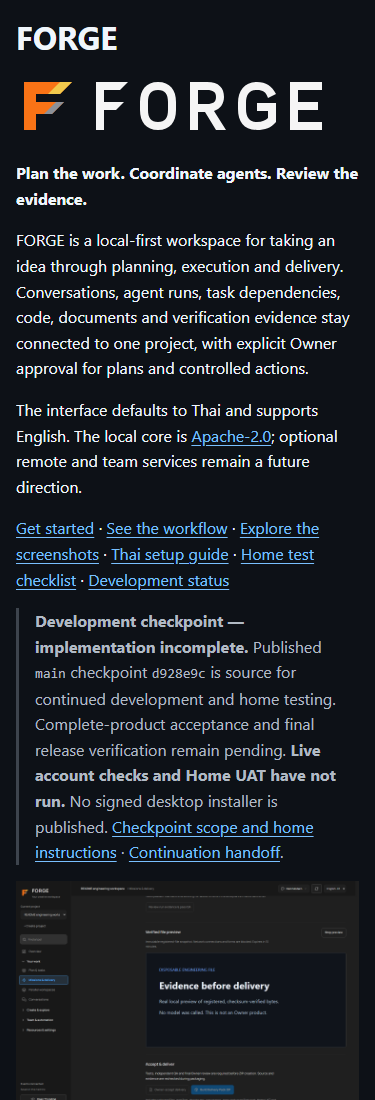
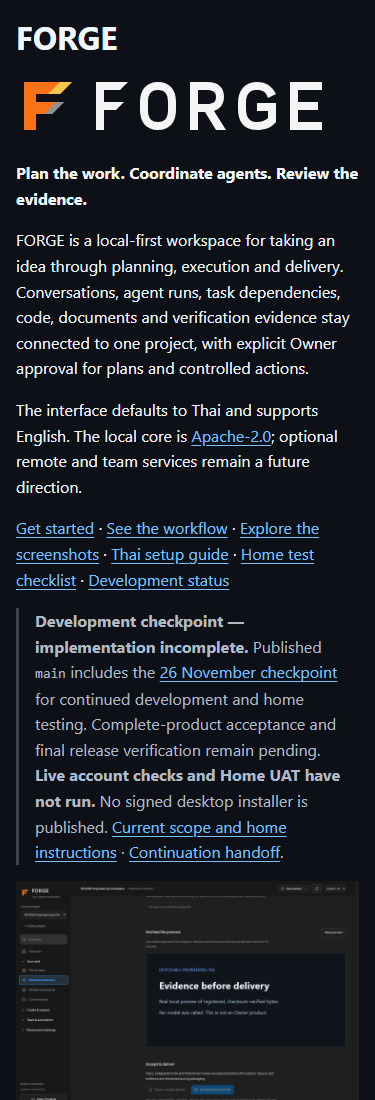
docs: record authorized main publication and home continuation

Changed region(s): [[0.088, 0.5873, 0.9093, 0.7727]]

diff --git a/apps/website/src/App.tsx b/apps/website/src/App.tsx
@@ -1,7 +1,7 @@
 import {useEffect, useState, type ReactNode} from 'react';
 import * as Tabs from '@radix-ui/react-tabs';
 import {ArrowUpRight, ArrowRight, ArrowDown, Sun, Moon, Menu, X, GitBranch, Layers3, Monitor, FileCheck2, Check, Download, ExternalLink} from 'lucide-react';
-import {href, repo, publicBaseline, publicCheckpoint, titles, type Lang, type Page} from './site';
+import {href, repo, publicBaseline, publicCheckpoint, currentCheckpoint, titles, type Lang, type Page} from './site';
 import {releases, windows} from './releases';
 import {StrategyStory} from './StrategyStory';
 import {SourceDownloads} from './SourceDownloads';
@@ -108,7 +108,7 @@ function CapabilityTable({t,lang}:{t:T;lang:Lang}) {
     <div className="capability-filters" role="group" aria-label={t('กรองสถานะความสามารถ','Filter capability status')}>{[['all',t('ทั้งหมด','All capabilities')],['local',t('นักพัฒนาตรวจแล้ว','Developer verified')],['experimental','Experimental'],['planned','Planned']].map(([id,label])=><button key={id} aria-pressed={filter===id} onClick={()=>setFilter(id)}>{label}</button>)}</div>
     <p className="sr-only" role="status">{t('แสดง','Showing')} {capabilities.filter(c=>filter==='all'||c[1]===filter).length} {t('รายการ','capabilities')}</p>
     <div className="capability-table">{capabilities.filter(c=>filter==='all'||c[1]===filter).map(([name,status,th,en])=><article className="capability" key={name}><div><h3>{name}</h3><span className={`status ${status}`}>{status==='local'?t('นักพัฒนาตรวจแล้ว','Developer verified'):status==='planned'?'Planned':'Experimental'}</span></div><p>{t(th,en)}</p><a href={href(lang,'github')} aria-label={`${name}: ${t('สถานะ source','source availability')}`}><ArrowUpRight size={19}/></a></article>)}</div>
-    <p className="qualification-note">{t('Source checkpoint d928e9c เป็นสาธารณะแล้ว · ยังอยู่ระหว่างพัฒนาและไม่มี public release · Home UAT และ macOS native: NOT_RUN','Development checkpoint d928e9c is public · In development; no public release · Home UAT and native macOS: NOT_RUN')} <a href={href(lang,'changelog')}>{t('อ่านสถานะและข้อจำกัด','Read status and limits')}<ArrowUpRight size={14}/></a></p>
+    <p className="qualification-note">{t('Source checkpoint f2387e8 เผยแพร่บน main แล้ว · ยังอยู่ระหว่างพัฒนาและไม่มี signed release · Home UAT และ macOS native: NOT_RUN','Source checkpoint f2387e8 is published on main · In development; no signed release · Home UAT and native macOS: NOT_RUN')} <a href={href(lang,'github')}>{t('อ่านสถานะและข้อจำกัด','Read status and limits')}<ArrowUpRight size={14}/></a></p>
   </section>;
 }
 
@@ -153,7 +153,7 @@ function DownloadPage({lang,t}:{lang:Lang;t:T}) {
 function Install({lang,t}:{lang:Lang;t:T}) {
   return <><div className="page-heading"><h1>Start on<br/>your own machine.</h1><p>{t('คู่มือนี้สำหรับ source รุ่นพัฒนา Windows คือแพลตฟอร์มที่มีหลักฐานการทดสอบในเครื่อง ส่วน Home UAT ยังไม่ได้ทดสอบ','This guide covers the development source. Windows has local verification evidence; home UAT has not been run.')}</p></div>
     <div className="reading-layout"><aside className="reading-aside"><h2>Before you begin</h2><ul><li>Windows x64</li><li>Node.js 24.13+</li><li>{t('อินเทอร์เน็ตในการเริ่มครั้งแรก','Internet on first start')}</li><li>{t('บัญชีบริการของคุณเอง','Your own provider accounts')}</li></ul><a href={href(lang,'download')}>{t('ตรวจสถานะ public release','Check public release status')}<Arrow/></a></aside><div className="prose">
-      <section><h2>Get the source</h2><p>{t('Checkpoint d928e9c เผยแพร่บน main แล้ว พร้อม Missions, isolated workspaces และ integration รุ่นพัฒนา เลือก revision นี้ แล้วใช้ Code → Download ZIP หรือ clone แตกทั้งโฟลเดอร์ก่อนเริ่ม ห้ามรัน launcher ภายใน ZIP','Checkpoint d928e9c is published on main, including Missions, isolated workspaces and development integrations. Select that revision, then use Code → Download ZIP or clone. Extract the whole folder before starting; do not run a launcher inside a ZIP.')}</p><External to={publicCheckpoint}>{t('เปิด source checkpoint','Open source checkpoint')}</External><p>{t('เป็น development checkpoint ที่ยังมีงานค้าง อ่าน handoff ก่อนเริ่ม เครื่องใหม่นี้จะไม่ได้รับ credentials หรือ runtime ส่วนตัวจาก Git และเว็บนี้ไม่ขอ token','This development checkpoint has remaining work; read its handoff before starting. Git does not transfer machine credentials or private runtimes. This website never asks for a token.')}</p></section>
+      <section><h2>Get the source</h2><p>{t('Checkpoint f2387e8 เผยแพร่บน main แล้ว รวม GUI หกกลยุทธ์, session roles และ Strategist ใช้ source revision นี้หรือ source ZIP ในหน้า Downloads แตกทั้งโฟลเดอร์ก่อนเริ่ม ห้ามรัน launcher ภายใน ZIP','Checkpoint f2387e8 is published on main, including six GUI strategies, session roles and Strategist. Use this source revision or the source ZIPs on Downloads. Extract the whole folder before starting; do not run a launcher inside a ZIP.')}</p><External to={currentCheckpoint}>{t('เปิด source checkpoint','Open source checkpoint')}</External><p>{t('เป็น development checkpoint ที่ยังมีงานค้าง อ่าน handoff ก่อนเริ่ม เครื่องใหม่นี้จะไม่ได้รับ credentials หรือ runtime ส่วนตัวจาก Git และเว็บนี้ไม่ขอ token','This development checkpoint has remaining work; read its handoff before starting. Git does not transfer machine credentials or private runtimes. This website never asks for a token.')}</p></section>
       <section><h2>Open FORGE</h2><p>{t('ติดตั้ง Node.js 24.13 ขึ้นไป แล้วดับเบิลคลิก Start-FORGE.cmd ที่ root ของ source การเริ่มครั้งแรกติดตั้ง dependency ที่ pin ไว้และ build แอป จากนั้นเปิดที่อยู่ localhost ที่ launcher แสดง','Install Node.js 24.13 or later. Double-click Start-FORGE.cmd at the source root. First launch installs pinned dependencies and builds the app, then opens the localhost address reported by the launcher.')}</p><p>{t('ใช้ Stop-FORGE.cmd เพื่อหยุด และ Restart-FORGE.cmd เพื่อเริ่มใหม่ ข้อมูลบนเครื่องแยกจาก source; การอัปเดตควรสำรองข้อมูลตามคู่มือก่อน','Use Stop-FORGE.cmd to stop and Restart-FORGE.cmd to restart. Machine data is separate from source; follow the backup guide before updating.')}</p><External to="https://nodejs.org/en/download">Node.js downloads</External></section>
       <section><h2>Connect deliberately</h2><p>{t('สร้างโปรเจกต์ใน GUI แล้วเพิ่มบัญชีและ connection ที่ต้องใช้ใน Settings ตรวจสิทธิ์ เครื่องมือ และสถานะจริงก่อนรัน งานและผู้ช่วยต้องอยู่ในขอบเขตที่คุณอนุญาต','Create a project in the GUI, then add the accounts and connections you need in Settings. Check permissions, tools and actual readiness before running. Work and helpers stay within the scope you authorize.')}</p></section>
       <section id="first-flow"><h2>Check your first flow</h2><p>{t('สร้างแผนและงาน บันทึกเอกสาร แล้วปิดและเปิดใหม่เพื่อตรวจการคงอยู่ของข้อมูล ทดสอบ provider และรายงานแยกตามบริการและ engine ที่ตั้งค่าไว้','Create a plan and task, save a document, then reopen to check persistence. Qualify providers and reports separately against the services and engines you configured.')}</p><p>{t('macOS: มี Start-FORGE.command ใน source แต่ native qualification ยังเป็น NOT_RUN และ report engines ปัจจุบันตรวจบน Windows x64 เท่านั้น','macOS: Start-FORGE.command exists in source, but native qualification is NOT_RUN. Current report engine qualification covers Windows x64 only.')}</p><External to={href(lang,'docs')}>{t('ดูเอกสารเพิ่มเติม','More documentation')}</External></section>
@@ -184,7 +184,7 @@ function Github({t}:{t:T}) {
   return <><div className="page-heading"><h1>Follow the source.<br/>Inspect the work.</h1><p>{t('แกนหลักแบบ open source ทำงานบนเครื่องของคุณ ส่วนบริการ remote และทีมเป็นทางเลือกในอนาคต เว็บนี้ build แยกจาก runtime โดยไม่มีข้อมูลส่วนตัว ความจำ หรือ credential','The open-source core runs on your machine. Optional remote and team services are future work. This site builds independently of the runtime, without private workspace data, memory or credentials.')}</p></div><section className="source-panel"><GitBranch size={36}/><h2>siriponsri / forge-agents</h2>
     <h3>Public baseline</h3><p>{t('ภาพจริงวันที่ 24 พ.ย. แสดง source พื้นฐาน 01ee779 ซึ่งมี Office รวมอยู่ด้วย และยังเปิดดู revision เดิมได้ ภาพนี้ไม่ได้แทนหน้าจอ integration ที่เพิ่มภายหลัง','The actual 24 Nov screenshot shows public baseline 01ee779, including Office. That historical revision remains available. The image does not represent integrations added later.')}</p>
     <div className="source-links"><External to={publicBaseline}>{t('ดู source พื้นฐาน 01ee779','Inspect baseline 01ee779')}</External><External to={`${repo}/blob/01ee779ffd049ba875ad85bd36f2c8accd274ca0/app/web/src/Office.jsx`}>{t('ดู source ของ Office','Inspect Office source')}</External></div>
-    <h3>Current development</h3><p>{t('ตรวจ GitHub API แบบไม่ใช้บัญชีวันที่ 26 พ.ย. 2026: main และ commit d928e9c ตอบ HTTP 200 เป็น development checkpoint ที่เผยแพร่แล้ว รวม Missions, Parallel Workspace, Visualization และ Proactive/budget งานที่กลับมาทำต่อวันที่ 26 พ.ย. ยังไม่รวมใน checkpoint นี้','Anonymous GitHub API check, 26 Nov 2026: main and commit d928e9c return HTTP 200. This published development checkpoint includes Missions, Parallel Workspace, Visualization and Proactive/budget. Resumed work from 26 Nov is not included in that checkpoint.')}</p><p>{t('ข้อมูลนี้เป็นผลตรวจที่บันทึกไว้ ไม่ใช่การตรวจสด และยังไม่มี public release หรือแพ็กเกจดาวน์โหลดในข้อมูลที่บันทึก','This is a recorded check, not a live lookup. There is still no public release or downloadable package in the recorded metadata.')}</p><Action to={publicCheckpoint}>Open published checkpoint</Action>
+    <h3>Current development</h3><p>{t('26 พ.ย. 2026: Owner อนุมัติ push checkpoint f2387e8 เข้า main และตรวจ revision จาก Git remote ตรงกันแล้ว รวม GUI หกกลยุทธ์, session roles, Strategist, landing และ source launcher ZIP การเผยแพร่ source ไม่ใช่การรับรอง product หรือการ deploy เว็บ','26 Nov 2026: the Owner authorized checkpoint f2387e8 on main, and Git remote verification confirmed the revision. It includes six GUI strategies, session roles, Strategist, the landing and source-launcher ZIPs. Source publication is not product qualification or website deployment.')}</p><Action to={currentCheckpoint}>Open current checkpoint</Action><p>{t('ผลตรวจ API ก่อน push ที่บันทึกไว้ยังอ้างอิง d928e9c และไม่มี GitHub Release ไม่ใช่ผลตรวจสดหรือสถานะล่าสุดของ main','The earlier recorded API check covers d928e9c and no GitHub Release; it is historical evidence, not a live lookup or the latest main revision.')}</p><External to={publicCheckpoint}>{t('เปิด checkpoint ก่อนหน้า','Open earlier checkpoint')}</External>
   </section></>;
 }
 function Footer({lang,t}:{lang:Lang;t:T}) {

diff --git a/apps/website/src/StrategyStory.tsx b/apps/website/src/StrategyStory.tsx
@@ -79,6 +79,6 @@ export function StrategyStory({lang,t}:{lang:Lang;t:T}) {
       <div className="story-detail" aria-live={playing?'off':'polite'} aria-atomic="true"><strong>{t(steps[step].titleTh,steps[step].titleEn)}</strong><p>{t(steps[step].bodyTh,steps[step].bodyEn)}</p></div>
       <p className="strategy-boundary"><ShieldCheck size={16} aria-hidden="true"/>{t(strategy.limitTh,strategy.limitEn)}</p>
     </div>
-    <div className="strategy-publication"><p>{t('ทั้ง 6 โหมดอยู่ระหว่างพัฒนาใน branch ที่ยังไม่เผยแพร่ ภาพนี้อธิบายแนวคิด ไม่ใช่หลักฐานว่า checkpoint d928e9c มีโหมดเหล่านี้หรือผ่านการรัน provider จริง','All six modes are in active development on an unpublished branch. This diagram explains the design; it does not show these modes in public checkpoint d928e9c or qualify live provider execution.')}</p><a href={href(lang,'github')}>{t('ตรวจสถานะ source','Check source status')}<ArrowUpRight size={16} aria-hidden="true"/></a></div>
+    <div className="strategy-publication"><p>{t('Source รุ่นพัฒนา 26 พ.ย. รวม GUI ทั้ง 6 โหมดแล้ว ภาพนี้อธิบายแนวคิด ไม่ใช่หลักฐานการรัน provider จริงหรือการรับรอง complete product','The 26 Nov development source includes all six GUI modes. This diagram explains the design; it does not qualify live provider execution or complete-product acceptance.')}</p><a href={href(lang,'github')}>{t('ตรวจสถานะ source','Check source status')}<ArrowUpRight size={16} aria-hidden="true"/></a></div>
   </section>;
 }

diff --git a/docs/brand/evidence/readme-dark.html b/docs/brand/evidence/readme-dark.html
@@ -19,11 +19,12 @@ approval for plans and controlled actions.</p>
 <a href="docs/owner/forge-local-complete-20261124-v3/progress/CURRENT_STATUS.md">Development status</a></p>
 <blockquote>
 <p><strong>Development checkpoint — implementation incomplete.</strong> Published <code>main</code>
-checkpoint <code>d928e9c</code> is source for continued development and home testing.
+includes the <a href="https://github.com/siriponsri/forge-agents/tree/f2387e866a2ae3808ad1989a0a7860ae437e9956">26 November checkpoint</a>
+for continued development and home testing.
 Complete-product acceptance and final release verification remain pending.
 <strong>Live account checks and Home UAT have not run.</strong> No signed desktop
 installer is published.
-<a href="docs/CHECKPOINT_HOME_20261125.md">Checkpoint scope and home instructions</a> ·
+<a href="docs/HOME_HANDOFF_20261126_TH.md">Current scope and home instructions</a> ·
 <a href="docs/NEXT_SESSION_20261126.md">Continuation handoff</a>.</p>
 </blockquote>
 <p><img src="docs/media/screenshots/mission-preview.png" alt="FORGE Mission showing a registered HTML preview and local test evidence. Engineering fixture with injected provider observations; actual local files, tests and preview."></p>

diff --git a/docs/brand/evidence/readme-light.html b/docs/brand/evidence/readme-light.html
@@ -19,11 +19,12 @@ approval for plans and controlled actions.</p>
 <a href="docs/owner/forge-local-complete-20261124-v3/progress/CURRENT_STATUS.md">Development status</a></p>
 <blockquote>
 <p><strong>Development checkpoint — implementation incomplete.</strong> Published <code>main</code>
-checkpoint <code>d928e9c</code> is source for continued development and home testing.
+includes the <a href="https://github.com/siriponsri/forge-agents/tree/f2387e866a2ae3808ad1989a0a7860ae437e9956">26 November checkpoint</a>
+for continued development and home testing.
 Complete-product acceptance and final release verification remain pending.
 <strong>Live account checks and Home UAT have not run.</strong> No signed desktop
 installer is published.
-<a href="docs/CHECKPOINT_HOME_20261125.md">Checkpoint scope and home instructions</a> ·
+<a href="docs/HOME_HANDOFF_20261126_TH.md">Current scope and home instructions</a> ·
 <a href="docs/NEXT_SESSION_20261126.md">Continuation handoff</a>.</p>
 </blockquote>
 <p><img src="docs/media/screenshots/mission-preview.png" alt="FORGE Mission showing a registered HTML preview and local test evidence. Engineering fixture with injected provider observations; actual local files, tests and preview."></p>

diff --git a/apps/website/src/site.ts b/apps/website/src/site.ts
@@ -4,6 +4,7 @@ export const pages: Page[] = ['home', 'docs', 'install', 'download', 'changelog'
 export const repo = 'https://github.com/siriponsri/forge-agents';
 export const publicBaseline = `${repo}/tree/01ee779ffd049ba875ad85bd36f2c8accd274ca0`;
 export const publicCheckpoint = `${repo}/tree/d928e9cc97d54abbd38f2f65afa1798ac8b5b6d5`;
+export const currentCheckpoint = `${repo}/tree/f2387e866a2ae3808ad1989a0a7860ae437e9956`;
 export const href = (lang: Lang, page: Page = 'home') => `/${lang}/${page === 'home' ? '' : page + '/'}`;
 export function route(path: string): {lang: Lang; page: Page} {
   const parts = path.split('/').filter(Boolean);

diff --git a/tools/brand/verify.py b/tools/brand/verify.py
@@ -151,7 +151,9 @@ assert media(readme) == media(baseline), 'Existing screenshot/GIF paths or alt l
 checks['preserved']['existing_media_paths_and_alt_labels_identical'] = True
 assert '2x speed' in readme and 'predetermined' in readme and 'injected' in readme
 assert 'Apache-2.0' in readme and 'Legacy launchers retain their original meaning' in readme
-assert 'Strategist' in readme and 'd928e9c' in readme
+assert 'Strategist' in readme
+checkpoint = 'f2387e866a2ae3808ad1989a0a7860ae437e9956' if args.integrated else 'd928e9c'
+assert checkpoint in readme, 'README must retain its applicable development checkpoint'
 checks['readme_sha256'] = sha(readme.encode())
 assert layout['readmeSHA256'] == checks['readme_sha256'], 'README layout captures need regeneration'
 checks['readme_layout_variants'] = len(layout['variants'])

diff --git a/docs/HOME_HANDOFF_20261126_TH.md b/docs/HOME_HANDOFF_20261126_TH.md
@@ -1,5 +1,22 @@
 # ส่งต่องาน FORGE ไปทดสอบที่บ้าน
 
+## อัปเดต main ตามคำขอ Owner — 26 พฤศจิกายน
+
+Push checkpoint `f2387e866a2ae3808ad1989a0a7860ae437e9956` เข้า
+`https://github.com/siriponsri/forge-agents` สาขา `main` สำเร็จ และตรวจ remote
+revision ตรงกันแล้ว การแก้เอกสารสถานะหลังจากนั้นไม่เปลี่ยน source ที่แพ็กไว้.
+เป็น development checkpoint ไม่ใช่การรับรอง complete product หรือ deploy เว็บไซต์.
+
+ที่บ้าน หาก checkout สะอาดและไม่มี commit แยกจาก main ให้ใช้:
+
+```powershell
+git switch main
+git pull --ff-only origin main
+```
+
+แล้วดับเบิลคลิก `Start-FORGE.cmd`. หากมีงานค้างหรือประวัติแยก ให้เก็บงานเดิมก่อน;
+ไม่ใช้ reset ล้างงาน. ทำ Home UAT ตามลำดับด้านล่าง.
+
 ## ไฟล์ที่เปิดใช้งานได้
 
 - [Windows source launcher](../apps/website/public/downloads/FORGE-Windows.zip)
@@ -72,5 +89,5 @@ Native monetary billing finality ยัง unsupported (`cost:null`, `final:fals
 พร้อม source/image, บัญชีหรือ route ที่ตรวจโดยไม่เก็บ secret, operation/run refs,
 ขั้นตอนทำซ้ำ และ expected/actual evidence. สถานะ release อยู่ที่
 [Current Status](owner/forge-local-complete-20261124-v3/progress/CURRENT_STATUS.md).
-ไม่มี resumed push หรือ public deployment ในการส่งต่อนี้; public `main`
-checkpoint เดิมไม่รวมงานใน development branch จนกว่าจะผ่าน active release authorization.
+Owner อนุมัติและส่ง checkpoint รอบนี้ผ่าน `main` แล้วตามบันทึกด้านบน.
+ไม่ได้ deploy เว็บไซต์หรือเปิดบริการสาธารณะ และไม่ได้ยกเลิกข้อจำกัดการรับรอง.

diff --git a/docs/NEXT_SESSION_20261126.md b/docs/NEXT_SESSION_20261126.md
@@ -1,5 +1,16 @@
 # Resumed work and continuation map
 
+## Main publication — 26 November
+
+At the Owner's explicit request, local `main` fast-forwarded from `d928e9c`
+to `f2387e866a2ae3808ad1989a0a7860ae437e9956` and pushed successfully to
+`https://github.com/siriponsri/forge-agents`. `git ls-remote` confirmed that
+exact revision. Subsequent publication-copy edits preserve the tested app and
+download payloads. This supersedes earlier unpushed-branch instructions below.
+No website deployment or complete-product acceptance is implied. Continue from
+the home handoff; native monetary finality and Windows-only private setup remain
+implementation limits, separate from deferred live-product/server and Home UAT.
+
 ## Final local checkpoint — 26 November
 
 Local work below is complete at the recorded developer-check scope; the full
@@ -39,7 +50,8 @@ pending-landing and native-return diagnosis instructions below.
   Current native Guarded/Orchestrator/selection setup is Windows x64 only;
   macOS launcher execution remains NOT_RUN. Native monetary finality remains
   unsupported, separate from credentials. Real-product/external-server journeys
-  and Home UAT remain deferred at the Owner's request. No resumed push/deploy.
+  and Home UAT remain deferred at the Owner's request. Main publication is
+  recorded above; no public service was deployed.
 
 ## Latest verified state — native return correction and landing review
 

diff --git a/README.md b/README.md
@@ -22,11 +22,12 @@ The interface defaults to Thai and supports English. The local core is
 [Development status](docs/owner/forge-local-complete-20261124-v3/progress/CURRENT_STATUS.md)
 
 > **Development checkpoint — implementation incomplete.** Published `main`
-> checkpoint `d928e9c` is source for continued development and home testing.
+> includes the [26 November checkpoint](https://github.com/siriponsri/forge-agents/tree/f2387e866a2ae3808ad1989a0a7860ae437e9956)
+> for continued development and home testing.
 > Complete-product acceptance and final release verification remain pending.
 > **Live account checks and Home UAT have not run.** No signed desktop
 > installer is published.
-> [Checkpoint scope and home instructions](docs/CHECKPOINT_HOME_20261125.md) ·
+> [Current scope and home instructions](docs/HOME_HANDOFF_20261126_TH.md) ·
 > [Continuation handoff](docs/NEXT_SESSION_20261126.md).
 
 ![FORGE Mission showing a registered HTML preview and local test evidence. Engineering fixture with injected provider observations; actual local files, tests and preview.](docs/media/screenshots/mission-preview.png)

diff --git a/docs/owner/forge-local-complete-20261124-v3/progress/RELEASE_REPORT.md b/docs/owner/forge-local-complete-20261124-v3/progress/RELEASE_REPORT.md
@@ -4,8 +4,13 @@
 
 **Development source packages prepared; NOT a complete-product release.**
 This supersedes the old observed-status/template fields below. Version remains
-1.1.0-alpha.3; no resumed push, public deployment, compute purchase, credential
-migration or prototype activation. Public main remains the earlier `d928e9c`.
+1.1.0-alpha.3. The Owner explicitly authorized main publication on 26 November.
+`git merge --ff-only` advanced main from `d928e9c` to
+`f2387e866a2ae3808ad1989a0a7860ae437e9956`; `git push origin main` succeeded,
+and `git ls-remote origin refs/heads/main` returned that exact revision.
+Subsequent publication-copy edits retain this tested app source and the existing
+source ZIPs. No public deployment, compute purchase, credential migration or
+prototype activation occurred. This remains a development checkpoint.
 
 | Area | Observed result |
 |---|---|

diff --git a/docs/owner/forge-local-complete-20261124-v3/progress/CURRENT_STATUS.md b/docs/owner/forge-local-complete-20261124-v3/progress/CURRENT_STATUS.md
@@ -6,7 +6,10 @@
 goal, authorized workers, and added session roles, native parent-to-child
 orchestration, selectable Strategist and a professional README/minimal identity.
 The default identity now uses orange with secondary yellow and gray. Existing
-theme semantics remain unchanged. This branch has not been published to main.
+theme semantics remain unchanged. The Owner subsequently authorized main
+publication: checkpoint `f2387e866a2ae3808ad1989a0a7860ae437e9956` was pushed
+successfully and its remote revision independently read back. Publication-copy
+updates follow that tested checkpoint; complete-product acceptance remains open.
 
 The earlier assembled Research defect is corrected. Actual application/native
 verification passed for static Research, then for the all-ON primary/helper/

diff --git a/docs/owner/forge-local-complete-20261124-v3/progress/IMPLEMENTATION_LOG.md b/docs/owner/forge-local-complete-20261124-v3/progress/IMPLEMENTATION_LOG.md
@@ -1,5 +1,15 @@
 # Implementation Log
 
+## Owner-authorized main publication — 2026-11-26
+
+Fetched the confirmed FORGE origin; remote main had no commits outside the
+tested integration history. Clean local main fast-forwarded from `d928e9c` to
+`f2387e866a2ae3808ad1989a0a7860ae437e9956` and pushed successfully without
+force. Remote `ls-remote` read back the same revision. Publication copy and home
+instructions are reconciled afterward; no app/runtime/launcher payload changes.
+Protected legacy paths remain identical to `d928e9c`. Home/live checks and the
+documented implementation limits remain open; no public service deployment.
+
 ## Final local correction and documentation checks — 2026-11-26
 
 `246daac` closes private session JSON control connections after acknowledgement;
